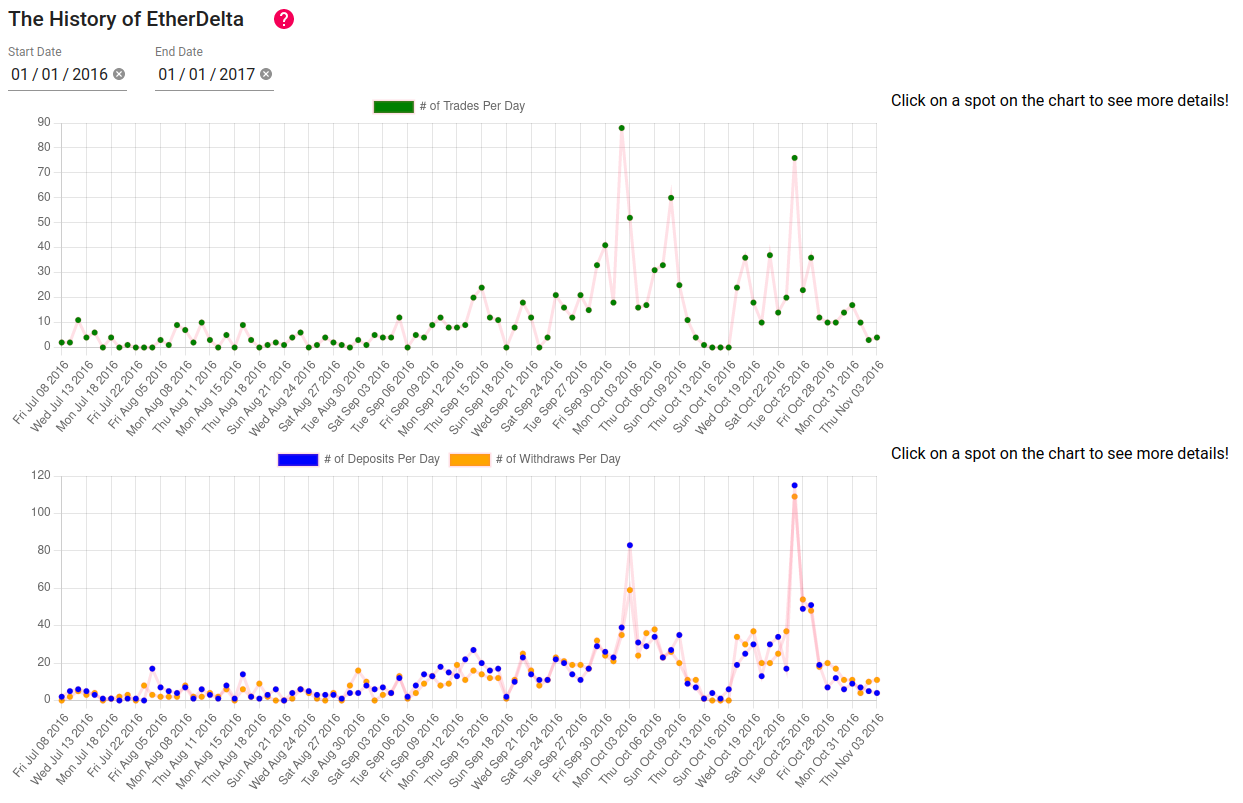
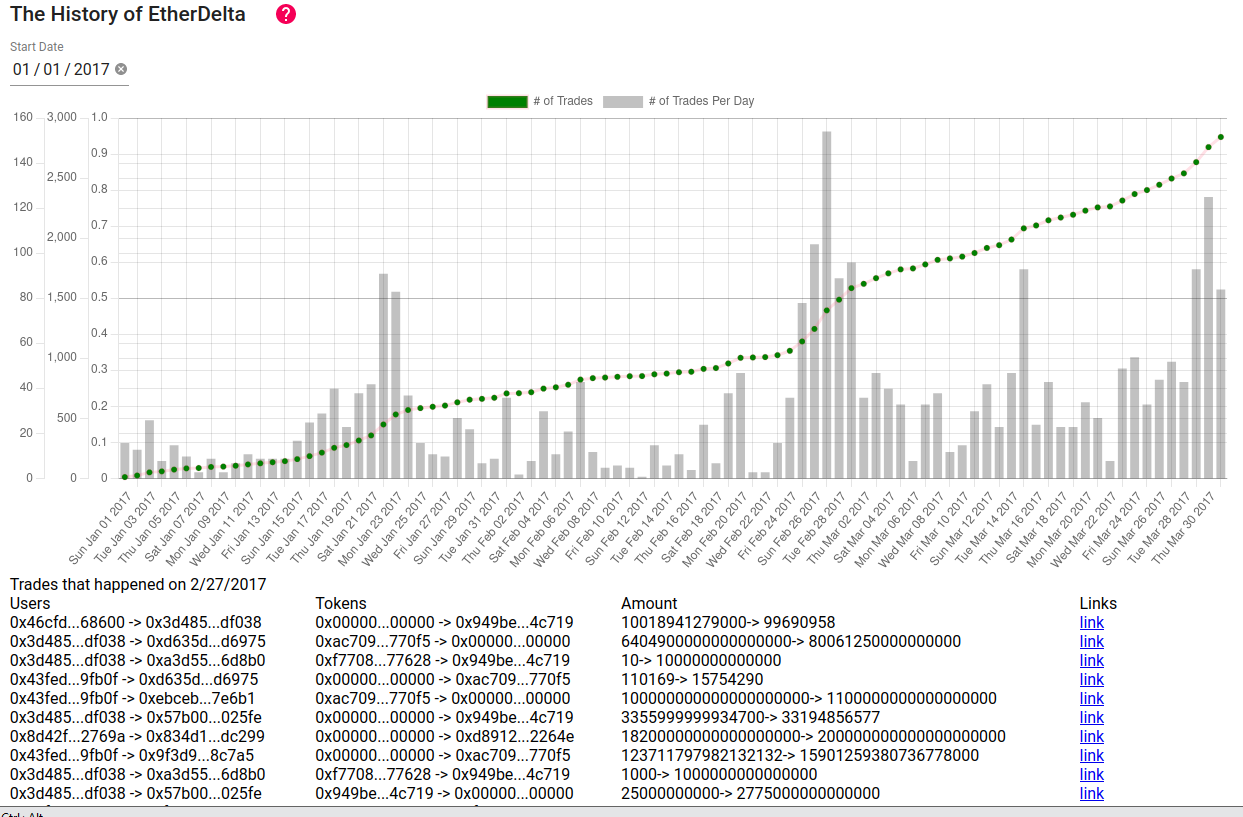
fix more stuffs

diff --git a/frontend/src/components/MainGraph/MainGraph.jsx b/frontend/src/components/MainGraph/MainGraph.jsx
@@ -424,15 +424,18 @@ class MainGraph extends Component {
                 </ApolloProvider>
               ) : (
                 <ApolloProvider client={client}>
-                <Grid item xs={6}>
-                  <MainGraphQuery2
+                  <Grid item xs={2}></Grid>
+                <Grid item xs={8}>
+                <MainGraphQuery2
                   aaa={this.state.DaysFrom1970}
+                  onDateChange={(field) => { this.setState(state => ({...state, dateOffset: field})); console.log("onDateChange" + dateOffset)}}
                   ></MainGraphQuery2>
                   </Grid>
-                  <Grid item xs={6}>
+                  <Grid item xs={2}></Grid>
+                  <Grid item xs={12}>
                   <TradeDetails
                   DaysFrom1970={this.state.DaysFrom1970}
-                  DateOffset={this.state.dateOffset}
+                  DateOffset={dateOffset}
                   mode={this.state.mode}
                   ></TradeDetails>
                   </Grid>

diff --git a/frontend/src/App.js b/frontend/src/App.js
@@ -52,11 +52,6 @@ class App extends Component {
         <Grid item xs={2}></Grid>
         <Grid item xs={2}></Grid>
         <Grid item xs={8}>
-          <Button 
-          mode={1}
-          onClick={() => this.setState( state => ({ ...state, mode:1 }))}>Trades</Button>
-          <Button onClick={() => this.setState( state => ({ ...state, mode:2 }))}>Deposits</Button>
-          <Button onClick={() => this.setState( state => ({ ...state, mode:3 }))}>Withdrawals</Button>
         </Grid>
         <Grid item xs={2}></Grid>
         <Grid item xs={2}></Grid>
@@ -85,7 +80,11 @@ class App extends Component {
         <Grid item xs={12}>
           <MainGraph
           DaysFrom1970={DaysFrom1970}
-          mode = {mode}
+          mode = {1}
+          ></MainGraph>
+          <MainGraph
+          DaysFrom1970={DaysFrom1970}
+          mode = {2}
           ></MainGraph>
       </Grid>
       </Grid>

diff --git a/frontend/src/components/MainGraph/TradeDetails/TradeDetails.jsx b/frontend/src/components/MainGraph/TradeDetails/TradeDetails.jsx
@@ -151,7 +151,7 @@ const TradeDetails = ({ DaysFrom1970 , DateOffset, mode}) => (
       <Grid container direction="row" alignItems="center">
       <ApolloProvider client={client}>
         <Grid item xs={2}></Grid>
-        <Grid item xs={8}>Deposits/Withdraws that happened on {DaysFrom1970 +1 + DateOffset}</Grid>
+        <Grid item xs={8}>Deposits/Withdraws that happened on {new Date((DaysFrom1970 +1 + DateOffset)*24*60*60*1000).toLocaleDateString()}</Grid>
         <Grid item xs={2}></Grid>
         <Grid item xs={2}></Grid>
         <Grid item xs={2}>Users</Grid>
